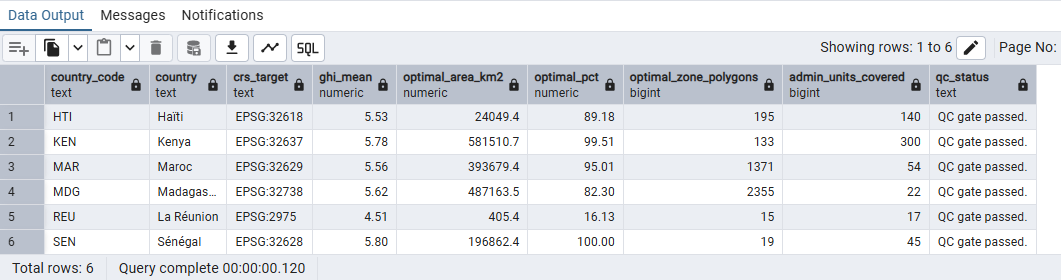
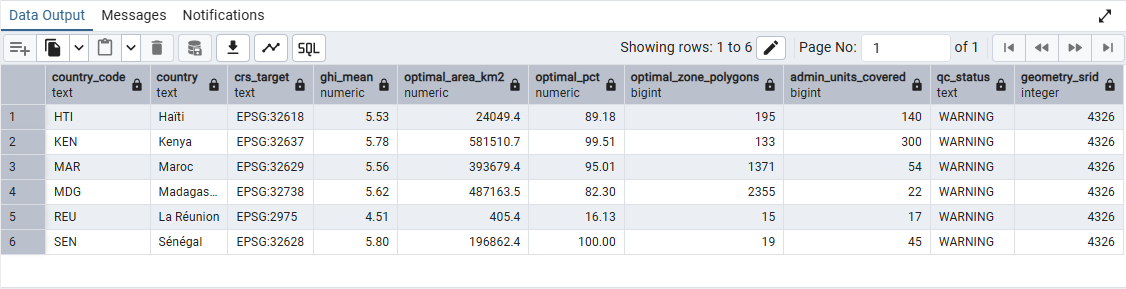
Add geometry SRID column to country_summary view and README screenshot

Changed region(s): [[0.0, 0.0286, 1.0, 0.9143], [0.0, 0.9429, 0.311, 1.0]]

diff --git a/README.md b/README.md
@@ -382,7 +382,7 @@ confirming that all six managed tables - not just one - were correctly synchroni
 
 <p align="center">
   <img src="figures/database_export_summary.png"
-       alt="PostgreSQL/PostGIS query result: per-country GHI mean, optimal-zone area and percentage, geometry counts, and QC status across all six countries"
+       alt="PostgreSQL/PostGIS query result: per-country GHI mean, optimal-zone area and percentage, geometry counts, QC status across all six countries, and geometry SRID"
        width="800">
 </p>
 
